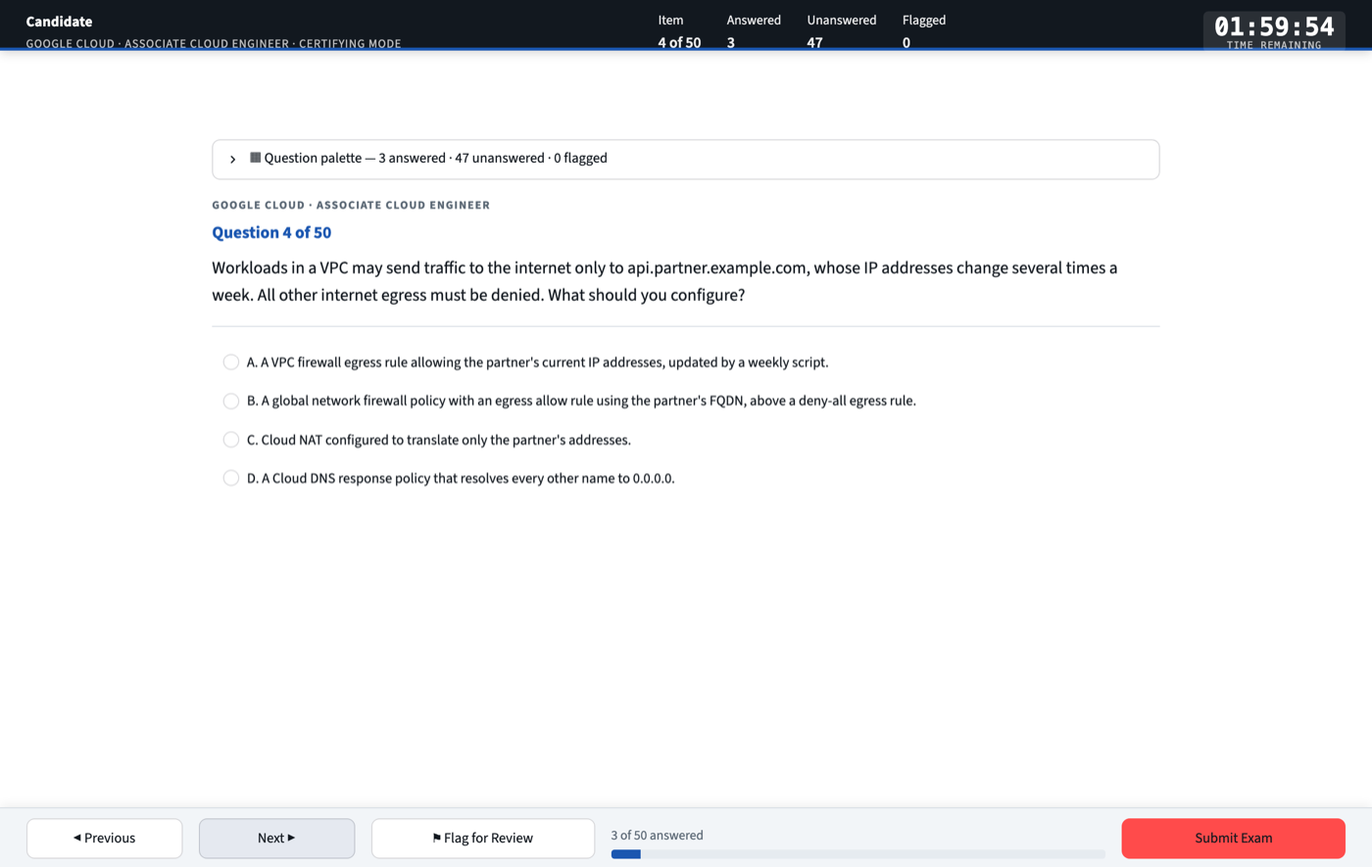
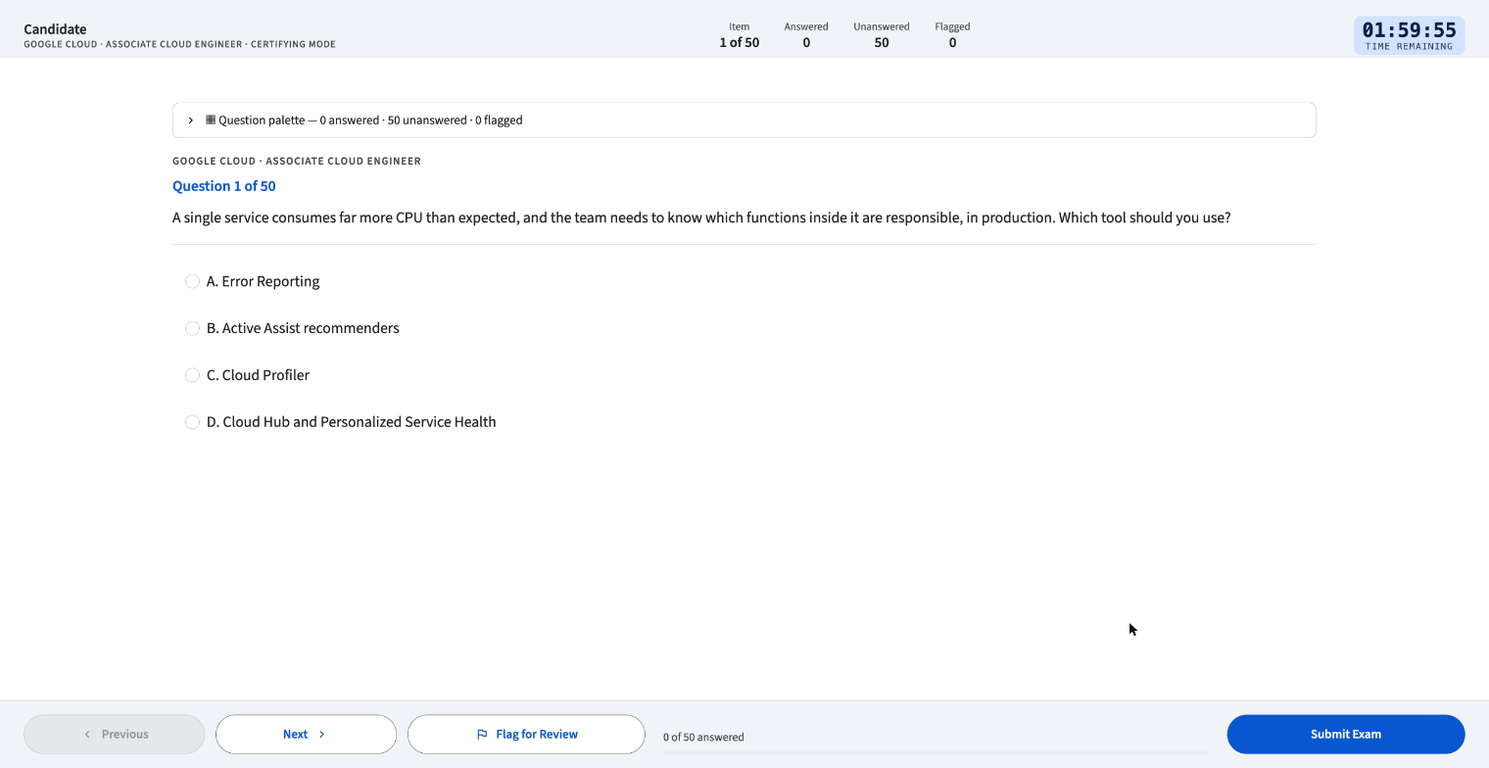
Review fixes and v1.2.0: cross-domain ids from kb.py add, lint in CI, docs
- kb.py add minted an ordinary section id for a question with also_tests and
  left it in learning mode. A cross-domain question is now always
  certifying-only, and next_id(cross=True) mints ace-x-NNN. Test added.
- CI runs kb.py lint.
- VERSION 1.2.0; CHANGELOG Unreleased moved to [1.2.0] as Added / Changed /
  Fixed. RELEASE.md: lint in the CI list, the question-id rules, a version is
  released only with its tag, roadmap (1.2.0 = this, published image -> 1.3.0).
- README: counts, kb.py lint, multiple-select and cross-domain authoring,
  layout, 154 tests, a current screenshot. CONTRIBUTING: the new formats and
  retired ids.

diff --git a/src/models.py b/src/models.py
@@ -221,6 +221,8 @@ class Question(BaseModel):
             raise ValueError("also_tests repeats the question's own objective")
         if self.also_tests and not any(section_of(o).label != self.domain for o in self.also_tests):
             raise ValueError("a cross-domain question must also test an objective in another section")
+        if self.also_tests:
+            self.certifying_only = True  # cross-domain questions are drawn in certifying exams only
         return self
 
     @property
@@ -437,13 +439,14 @@ class QuestionBank(BaseModel):
             or n in q.subtopic.casefold() or any(n in t for t in q.tags)
         ]
 
-    def next_id(self, domain: str, retired: Iterable[str] = ()) -> str:
-        """Mint a new id in a section (``ace-s2-007``), above every id in use or retired.
+    def next_id(self, domain: str, retired: Iterable[str] = (), cross: bool = False) -> str:
+        """Mint a new id in a section (``ace-s2-007``), or a cross-domain one (``ace-x-051``), above
+        every id in use or retired.
 
         Ids are never reused: attempt history refers to questions by id, so a gap left by a removed
         question must stay a gap (``data/retired.json`` lists them).
         """
-        prefix = f"ace-{DOMAIN_SLUG[domain]}-"
+        prefix = "ace-x-" if cross else f"ace-{DOMAIN_SLUG[domain]}-"
         ids = [q.id for q in self.questions] + list(retired)
         used = [int(i[len(prefix):]) for i in ids if i.startswith(prefix) and i[len(prefix):].isdigit()]
         return f"{prefix}{max(used, default=0) + 1:03d}"

diff --git a/tests/test_multi_select.py b/tests/test_multi_select.py
@@ -92,3 +92,13 @@ def test_a_single_answer_question_has_exactly_four_options(bank):
     raw["explanation"]["option_breakdown"]["E"] = "Wrong."
     with pytest.raises(ValueError):
         Question.model_validate(raw)
+
+
+def test_a_cross_domain_question_is_always_certifying_only_and_gets_an_x_id(bank):
+    raw = next(q for q in bank.questions if q.is_cross_domain).model_dump(mode="json")
+    raw.pop("uid")
+    q = Question.model_validate({**raw, "id": "pending", "certifying_only": False})
+    assert q.certifying_only
+    used = max(int(x.id[6:]) for x in bank.questions if x.id.startswith("ace-x-"))
+    assert bank.next_id(q.domain, cross=True) == f"ace-x-{used + 1:03d}"
+    assert bank.next_id(q.domain).startswith("ace-s")

diff --git a/scripts/kb.py b/scripts/kb.py
@@ -575,7 +575,7 @@ def cmd_add(args) -> int:
 
     flagged = 0
     for q in candidates:
-        q.id = bank.next_id(q.domain, QuestionBank.retired_ids(args.data_dir))
+        q.id = bank.next_id(q.domain, QuestionBank.retired_ids(args.data_dir), cross=q.is_cross_domain)
         _preview(q)
         if _report_overlap(bank, q, args.threshold):
             flagged += 1

diff --git a/CHANGELOG.md b/CHANGELOG.md
@@ -6,70 +6,77 @@ All notable changes to this project are recorded here. The format follows
 
 ## [Unreleased]
 
-### Changed
+## [1.2.0] - 2026-11-07
 
-- **Every question was reviewed** against a new [question standard](docs/question-standard.md); 461 were revised and
-  the review is recorded per question in `docs/reviews/2026-11-bank-review.json`. Answer options no longer give the
-  answer away by length (the longest option was the key in 60% of questions; now 26%, about chance). Stems name the
-  product they mean ("GKE cluster", not "cluster"), state the facts the answer depends on, and options describe a
-  decision instead of a command line to spell. Template questions that shared distractors now have their own.
-- **Answer keys corrected** where a second option was also right or the key was wrong, among them `ace-dom2-021`
-  (Coldline was cheaper than the keyed Nearline), `ace-dom2-040` and `ace-dom2-042` (Autopilot also met the stem),
-  `ace-dom2-018` (the access pattern read two ways), `ace-dom1-015` (the scenario was impossible) and `ace-dom4-011`
-  (BigQuery data-read logs are on by default).
+The question review of [issue #1](https://github.com/nirmata78/gcp-ace-simulator/issues/1), question formats the
+real exam uses, and the in-app score report. Existing history keeps loading; nothing to migrate.
+
+### Added
+
 - **Multiple-select questions** ("Choose two"), as the real exam has them: checkboxes that lock once you've picked
   enough, scored only when every pick is right, in the app, the PDF report and `kb.py`. 57 in the bank.
 - **75 cross-domain questions** (`ace-x-001`…`ace-x-075`) whose scenario needs two or three sections at once. They
   appear only in certifying exams, five in each 50-question exam, counted in their main section's share. The last 25
   are written in the style of Google's sample questions: a scenario, a stated constraint such as least privilege or
   minimal overhead, and options that are actions.
-- **Every question has a GUID** (`uid`) that never changes, alongside its readable id.
 - **Certifying exams avoid questions you have already seen.** Every question of every recorded attempt counts as
   seen; the checkbox (on by default) draws only unseen questions, keeping the section split, and shows how many are
   left. A seen question comes back only when the bank has no unseen one.
+- **The score report opens in the app** instead of a browser tab: your score against the pass line, sections, timing,
+  where to study next, then each reviewed question with every option explained, the course's theory, the command,
+  the tell to spot next time and links to read and rewatch. **Missed and flagged** or **Every question**, with
+  **Download PDF report** for the same review as a PDF. A PDF copy is still saved to `reports/` on submission.
+- Learning mode: drag the divider between the question and the study panel to resize it. Arrow keys work, a
+  double-click resets it, and the browser remembers the width. Below 1000px the panel moves under the question; on a
+  phone the navigation buttons show icons only.
+- **Every question has a GUID** (`uid`) that never changes, alongside its readable id.
+- A written [question standard](docs/question-standard.md), and `python scripts/kb.py lint`, which checks what a
+  machine can of it (now also run in CI). `scripts/audit_overlap.py` repeats the provenance audit against local
+  reference files.
+
+### Changed
+
+- **Every question was reviewed** against the question standard; 461 were revised and the review is recorded per
+  question in `docs/reviews/2026-11-bank-review.json`. Answer options no longer give the answer away by length (the
+  longest option was the key in 60% of questions; now 29%, near chance). Stems name the product they mean ("GKE
+  cluster", not "cluster"), state the facts the answer depends on, and options describe a decision instead of a
+  command line to spell. Template questions that shared distractors now have their own.
 - **The 104 excluded questions are settled** (issue #1): 25 were rewritten from scratch as new questions and 79
   dropped. 33 of the 34 questions removed for resembling a public question set are back, each with its own scenario;
   the 34th duplicated another question. 29 new questions filled thin subtopics. The bank has 722 questions; every
   guide bullet still has at least three. Removed ids are never reused (`data/retired.json`).
-- `python scripts/kb.py lint` checks questions against the standard; `scripts/audit_overlap.py` repeats the
-  provenance audit against local reference files.
-- Theory: GKE can now change a node pool's machine type in place (the nodes are recreated); a new pool and a drain is
-  still the way to keep a fallback.
-
-- The score report opens in the app instead of a browser tab: your score against the pass line, sections, timing,
-  where to study next, then each reviewed question with every option explained, the course's theory, the command,
-  the tell to spot next time and links to read and rewatch. **Missed and flagged** or **Every question**, with
-  **Download PDF report** for the same review as a PDF. A PDF copy is still saved to `reports/` on submission.
-- The layout fills the window. The header and the navigation bar have fixed heights, so nothing is clipped, and the
-  study panel fits between them and scrolls on its own.
-- Learning mode: drag the divider between the question and the study panel to resize it. Arrow keys work, a
-  double-click resets it, and the browser remembers the width. Below 1000px the panel moves under the question; on a
-  phone the navigation buttons show icons only.
-- Material 3 colours, shapes and type throughout, also set as the Streamlit theme.
-- Downloads are built when you download: a PDF removed from `reports/` is rebuilt, and a failed build shows its error
-  instead of an empty file. The review shows 10 questions at a time, with **Show more**.
-- Requires Streamlit 1.66.1 or later (`pyproject.toml`).
-- Type grows with the window, as browser zoom would: 16px on small screens, about 20px on a 1728px laptop, at most
-  24px. Answer options are set at the stem's size, stay readable after **Check answer**, and the right option (and a
-  wrong pick) is marked in the list.
+- The layout fills the window, in Material 3 colours, shapes and type (also set as the Streamlit theme). The header
+  and the navigation bar have fixed heights, so nothing is clipped, and the study panel fits between them and scrolls
+  on its own. Type grows with the window, as browser zoom would: 16px on small screens, about 20px on a 1728px laptop,
+  at most 24px. Answer options are set at the stem's size, stay readable after **Check answer**, and the right option
+  (and a wrong pick) is marked in the list.
 - Buttons: white on blue for the main action and blue on white for the others, with readable hover, pressed, focus
   and disabled states. The bottom bar's buttons are centred in it, with space between them.
+- Downloads are built when you download: a PDF removed from `reports/` is rebuilt, and a failed build shows its error
+  instead of an empty file. The review shows 10 questions at a time, with **Show more**.
+- Theory: GKE can change a node pool's machine type in place (the nodes are recreated); the restricted and private
+  Google API ranges; GKE maintenance-exclusion scopes; Cloud Run secrets as volumes versus environment variables; the
+  IAP web-app role; the roles Pub/Sub dead-lettering needs.
+- Requires Streamlit 1.66.1 or later (`pyproject.toml`).
 
 ### Fixed
 
-- **An answer was recorded wrongly in some new attempts.** Since the 2026-11-06 answer-key repair, a new attempt that
-  included one of the twelve repaired questions had that answer swapped when it was saved, as if it were an old record.
-  New attempts are now saved as answered, and affected attempts (finished after the repair shipped) are corrected once
-  when history is read.
-
+- **Answer keys corrected** where a second option was also right or the key was wrong, among them `ace-dom2-021`
+  (Coldline was cheaper than the keyed Nearline), `ace-dom2-040` and `ace-dom2-042` (Autopilot also met the stem),
+  `ace-dom2-018` (the access pattern read two ways), `ace-dom1-015` (the scenario was impossible) and `ace-dom4-011`
+  (BigQuery data-read logs are on by default).
 - Twelve questions had the answer key on a distractor whose explanation contradicted it ("Correct." on two options):
   `ace-dom1-033`, `ace-dom1-043`, `ace-dom2-005`, `ace-dom2-007`, `ace-dom2-021`, `ace-dom2-043`, `ace-dom2-053`,
   `ace-dom2-057`, `ace-dom3-033`, `ace-dom3-037`, `ace-dom4-006`, `ace-dom5-017`. The options were swapped so each key
   now points at the right answer and the answer-letter spread is unchanged; a test now allows only the key to be
-  called correct.
-- Attempts recorded before that fix are repaired once when history is read: the chosen letter for those twelve
-  questions is swapped the same way and the attempt re-scored, so a pick that was the right answer now counts as
-  correct (`Attempt.bank_fixes` records it, so it never applies twice).
+  called correct. Attempts recorded before that fix are repaired once when history is read: the chosen letter for
+  those twelve questions is swapped the same way and the attempt re-scored (`Attempt.bank_fixes` records it, so it
+  never applies twice).
+- **An answer was recorded wrongly in some new attempts.** After that repair shipped, a new attempt that included one
+  of the twelve questions had that answer swapped when it was saved, as if it were an old record. New attempts are now
+  saved as answered, and affected attempts (finished after the repair shipped) are corrected once when history is read.
+- `kb.py add` gave a cross-domain question (one with `also_tests`) an ordinary section id and left it in learning mode.
+  It now mints an `ace-x-` id, and a cross-domain question is always certifying-only.
 - The timing summary counted unanswered items as misses "answered in under 25 seconds". It now counts wrong answers
   only and states the unanswered ones separately; the results screen shows **Answered wrongly** beside
   **Unanswered** instead of counting unanswered items twice.
@@ -155,7 +162,8 @@ First release, built on Google's June 2026 Associate Cloud Engineer exam guide.
 - **The app needs internet at startup** unless `ACE_SKIP_NETWORK_CHECK=1` is set, even though the exam itself runs
   offline ([#3](https://github.com/nirmata78/gcp-ace-simulator/issues/3)).
 
-[Unreleased]: https://github.com/nirmata78/gcp-ace-simulator/compare/v1.1.0...HEAD
+[Unreleased]: https://github.com/nirmata78/gcp-ace-simulator/compare/v1.2.0...HEAD
+[1.2.0]: https://github.com/nirmata78/gcp-ace-simulator/compare/v1.1.0...v1.2.0
 [1.1.0]: https://github.com/nirmata78/gcp-ace-simulator/compare/v1.0.1...v1.1.0
 [1.0.1]: https://github.com/nirmata78/gcp-ace-simulator/compare/v1.0.0...v1.0.1
 [1.0.0]: https://github.com/nirmata78/gcp-ace-simulator/releases/tag/v1.0.0

diff --git a/README.md b/README.md
@@ -5,7 +5,7 @@
 [![Theory](https://img.shields.io/badge/theory-GitHub%20Pages-blue)](https://nirmata78.github.io/gcp-ace-simulator/theory/)
 [![License: MIT](https://img.shields.io/badge/license-MIT-green.svg)](LICENSE)
 [![Release](https://img.shields.io/github/v/release/nirmata78/gcp-ace-simulator)](https://github.com/nirmata78/gcp-ace-simulator/blob/main/CHANGELOG.md)
-![697 questions](https://img.shields.io/badge/questions-722-orange)
+![722 questions](https://img.shields.io/badge/questions-722-orange)
 ![Exam guide: June 2026](https://img.shields.io/badge/exam%20guide-June%202026-purple)
 ![Python 3.11+](https://img.shields.io/badge/python-3.11%2B-blue)
 
@@ -196,6 +196,7 @@ python scripts/kb.py show ace-s2-015        # one question in full (by id or tit
 python scripts/kb.py search "secure tag"    # titles, stems, subtopics, tags
 python scripts/kb.py stats                  # counts by section/objective, answer-letter spread
 python scripts/kb.py check                  # schema, duplicates, per-objective depth, uncovered bullets
+python scripts/kb.py lint                   # the question standard: errors, and --warnings for a reviewer
 ```
 
 ### Adding questions
@@ -225,6 +226,13 @@ Give an `objective` and a `subtopic` from the closed list; the section is derive
 python scripts/kb.py add --file newq.json          # previews, checks overlap, then asks
 python scripts/kb.py add --file batch.json --yes   # a JSON list works too
 ```
+
+**Multiple-select.** Give four or five options (`A`–`E`), two or three correct, as `"correct_answer": "A,D"`, a
+rationale for every option, and end the stem with "(Choose two.)" or "(Choose three.)".
+
+**Cross-domain.** Add `"also_tests": ["4.2"]`, the other objectives the scenario needs, at least one in another
+section. The question is then certifying-only and gets an `ace-x-NNN` id. New ids are always above every id in use or
+in `data/retired.json`, so a removed question's id is never reused.
 
 **With Claude** (optional; needs `ANTHROPIC_API_KEY`). Give a topic or a rough stem. The prompt gives the model the
 closed subtopic list and tells it to write nothing outside the guide. Every candidate is previewed, checked for
@@ -262,8 +270,7 @@ question sets and Google's sample questions (`scripts/audit_overlap.py`, [issue 
 34 questions that shared a scenario with an earlier public question were removed, then 33 of them restored with their
 own scenarios: a public look-alike of a common exam topic is not a reason to drop an original question (the 34th was
 a duplicate of another question). Of the 104, 25 were rewritten from scratch and 79 dropped, and a test keeps those
-from coming back. No
-comparison can prove there is no resemblance to anything else: **if you recognise an item,
+from coming back. No comparison can prove there is no resemblance to anything else: **if you recognise an item,
 [open an issue](https://github.com/nirmata78/gcp-ace-simulator/issues) and it will go.**
 
 Every question is held to a written [question standard](docs/question-standard.md): one decision, a complete scenario,
@@ -299,13 +306,16 @@ gcp-ace-simulator/
 ├── src/
 │   ├── blueprint.py           # the June 2026 exam guide: sections, objectives, bullets, subtopics
 │   ├── models.py              # schemas, bank persistence, register, duplicate detection
+│   ├── question_lint.py       # the machine-checkable parts of the question standard
 │   ├── exam_engine.py         # three-level sampling, timer, navigation, scoring (no Streamlit imports)
 │   ├── paths.py               # where history and reports go (ACE_STATE_DIR)
 │   ├── retrospective.py       # the PDF report: score summary, then two pages per reviewed item
 │   ├── study_links.py         # theory sections, site links and video chapters for a question
 │   └── history_sync.py        # merges two histories, for bin/start.sh and bin/stop.sh
 ├── scripts/
-│   ├── kb.py                  # query / add / check / blueprint / reindex
+│   ├── kb.py                  # query / add / check / lint / blueprint / reindex
+│   ├── audit_overlap.py       # provenance audit against local reference question sets
+│   ├── review_report.py       # docs/reviews/*.md from the review ledger
 │   ├── check_network.py       # the connectivity check before LLM authoring
 │   ├── retrospective.py       # rebuild the report for an attempt in history
 │   ├── build_study_links.py   # regenerate data/study_links.json from the theory and the video
@@ -313,11 +323,13 @@ gcp-ace-simulator/
 ├── data/
 │   ├── sections/*.json        # the bank, source of truth, one file per guide section
 │   ├── register.json          # generated index; rebuilt on every write
+│   ├── retired.json           # removed question ids, never reused
 │   └── study_links.json       # generated: guide bullet -> theory sections, URLs, video chapters
 ├── bin/start.sh, bin/stop.sh  # run it in Docker, with your history
 ├── theory/                    # the site: one Markdown page per part
 │   ├── pdf/                   # optional local PDF build
 │   └── video/                 # sources of a narrated course (the videos are not in the repo)
+├── docs/                      # question-standard.md, reviews/ (the per-question review ledger), plans/
 ├── tests/                     # the default run; tests/container needs Docker
 ├── Dockerfile, compose.yaml   # the container; .dockerignore allows only what the image needs
 ├── pyproject.toml             # dependencies; requirements*.lock pin them with hashes
@@ -332,13 +344,13 @@ by hand, run `python scripts/kb.py reindex`.
 ## 8 · Testing
 
 ```bash
-pytest -q          # 130 tests; no Docker needed
+pytest -q          # 154 tests; no Docker needed
 ```
 
 They cover the schema and blueprint, bank integrity, the exact sampling split, navigation, flags, the timer, deferred
-grading and objective scoring, reading older history, the PDF report and its layout, the in-app report, the study links, the study panel and its splitter,
+grading and objective scoring, multiple-select scoring, cross-domain sampling, draws that avoid seen questions, the question standard, reading older history, the PDF report and its layout, the in-app report, the study links, the study panel and its splitter,
 merging histories, running offline and `ACE_STATE_DIR`. CI runs them
-on every pull request, with `kb.py check` and `kb.py blueprint --min 3 --strict`.
+on every pull request, with `kb.py check`, `kb.py lint` and `kb.py blueprint --min 3 --strict`.
 
 The container has its own tests, which sit an exam in a real browser against the hardened container:
 
@@ -373,7 +385,7 @@ file, so they don't touch your simulator or your history, but they do rebuild th
 ## Releases
 
 The project uses [semantic versioning](https://github.com/nirmata78/gcp-ace-simulator/blob/main/RELEASE.md). See the [changelog](https://github.com/nirmata78/gcp-ace-simulator/blob/main/CHANGELOG.md) for what changed and for known
-limitations, and the [roadmap](https://github.com/nirmata78/gcp-ace-simulator/blob/main/RELEASE.md#roadmap) for what is next, starting with a ready-made Docker image
+limitations, and the [roadmap](https://github.com/nirmata78/gcp-ace-simulator/blob/main/RELEASE.md#roadmap) for what is next, starting with a ready-made Docker image in 1.3.0
 ([#7](https://github.com/nirmata78/gcp-ace-simulator/issues/7)).
 
 ## Contributing

diff --git a/RELEASE.md b/RELEASE.md
@@ -32,19 +32,24 @@ If a release does more than one of these, the largest bump wins.
   separate session that didn't write it.
   **Exception for the repository owner:** on the owner's own changes, an AI tool such as Claude Code counts as the
   reviewer and may merge once CI is green, even if it also wrote the change.
-- **CI must be green** before merging: `pytest -q`, `python scripts/kb.py check`, `python scripts/kb.py blueprint --min 3 --strict` and, when the image's inputs change, `pytest tests/container`.
+- **CI must be green** before merging: `pytest -q`, `python scripts/kb.py check`, `python scripts/kb.py lint`,
+  `python scripts/kb.py blueprint --min 3 --strict` and, when the image's inputs change, `pytest tests/container`.
 - **Bug fixes and new behaviour come with a test.** If CI doesn't check it, it can break unnoticed.
 - **Treat coverage as a signal, not a goal.** Use it to find untested code, and don't chase a number
   ([Google's guidance](https://testing.googleblog.com/2020/08/code-coverage-best-practices.html)).
 - **Add a line to `CHANGELOG.md`** under `Unreleased` for anything a user would notice.
+- **Question changes follow [the question standard](docs/question-standard.md)**: a new question gets a new id
+  (`kb.py add` mints it, `ace-x-NNN` for a cross-domain one), a removed id goes to `data/retired.json` and is never
+  reused, and `kb.py lint` must report no errors.
 
 ## Cutting a release
 
 Start from an up-to-date `main` with CI green.
 
 1. **Pick the version** from the table above.
-2. **Open a pull request** that sets `VERSION` and moves `Unreleased` in `CHANGELOG.md` to a new dated heading. Merge it
-   once CI passes. A test fails if the two disagree.
+2. **Set the version** in a pull request: `VERSION`, and `Unreleased` in `CHANGELOG.md` moved to a new dated heading
+   with its compare link at the bottom. It can be the last commit of the feature pull request, or a pull request of
+   its own. Merge it once CI passes. A test fails if the two disagree.
 3. **Tag the merge commit and publish:**
 
    ```bash
@@ -57,6 +62,8 @@ Start from an up-to-date `main` with CI green.
    ```
 
 4. **Check it:** clone the tag somewhere fresh, run the tests and sit a short exam.
+5. **A version is released only when its tag and GitHub release exist.** A dated heading in the changelog without a
+   tag is not a release: tag the commit that set that version and publish it, as was done late for 1.1.0.
 
 ## If a release is bad
 
@@ -75,7 +82,5 @@ Only the latest release is supported.
 | **1.0.0** | First release: the simulator, the question bank and the theory course | [Changelog](CHANGELOG.md) |
 | 1.0.1 | Corrections from verifying the five newest questions | [#2](https://github.com/nirmata78/gcp-ace-simulator/issues/2) |
 | **1.1.0** | Docker from a clone with `bin/start.sh`, the review report with theory and video links, the study panel | [Changelog](CHANGELOG.md) |
-| 1.2.0 | A published image anyone can pull in one line, and the rest of the tech debt | [#7](https://github.com/nirmata78/gcp-ace-simulator/issues/7), [#3](https://github.com/nirmata78/gcp-ace-simulator/issues/3), [plan](docs/plans/v1.1.0-docker.yaml) |
-| Next MINOR | Rewritten questions from the provenance review | [#1](https://github.com/nirmata78/gcp-ace-simulator/issues/1) |
-
-The order of the last two can swap. Whichever lands first takes the next MINOR number.
+| **1.2.0** | The reviewed bank (question standard, the 104 settled), multiple-select and cross-domain questions, draws that avoid seen questions, the in-app score report | [#1](https://github.com/nirmata78/gcp-ace-simulator/issues/1), [Changelog](CHANGELOG.md) |
+| 1.3.0 | A published image anyone can pull in one line, and the rest of the tech debt | [#7](https://github.com/nirmata78/gcp-ace-simulator/issues/7), [#3](https://github.com/nirmata78/gcp-ace-simulator/issues/3), [plan](docs/plans/v1.1.0-docker.yaml) |

diff --git a/CONTRIBUTING.md b/CONTRIBUTING.md
@@ -35,12 +35,18 @@ bank from one of those sources, please open an issue. It will be removed.
    `doc_ref` should link to the page that proves the answer.
 3. `python scripts/kb.py add --file newq.json` previews it, checks overlap with the bank and validates it.
 4. Check it against the [question standard](docs/question-standard.md) and run `python scripts/kb.py lint`.
-5. Sit it once in Learning mode. Then check that `pytest -q` and `python scripts/kb.py check` are clean.
+5. Sit it once in Learning mode (a cross-domain question, which sets `also_tests`, appears only in certifying
+   exams). Then check that `pytest -q`, `python scripts/kb.py check` and `python scripts/kb.py lint` are clean.
+
+A question can also be **multiple-select** ("Choose two": four or five options, `"correct_answer": "A,D"`) or
+**cross-domain** (`also_tests` names the other objectives it needs); the [README](README.md#adding-questions) has the
+format and the [question standard](docs/question-standard.md#multiple-select-and-cross-domain-questions) the rules.
 
 A good item tests a decision, not a spelling. Every wrong option should be something a reasonable person might try,
 and should be wrong for a reason you can state. Avoid flag-name and console-label trivia.
 
-**Keep every id stable.** An id is a permanent key used by people's attempt history. New ids are minted for you.
+**Keep every id stable.** An id is a permanent key used by people's attempt history. New ids are minted for you. A removed
+question's id goes to `data/retired.json` and is never used again.
 
 **If you used an LLM** (including `kb.py add --topic`), you are still the author: check every answer against the
 documentation before opening the PR. Models are confidently wrong about recently renamed products.
